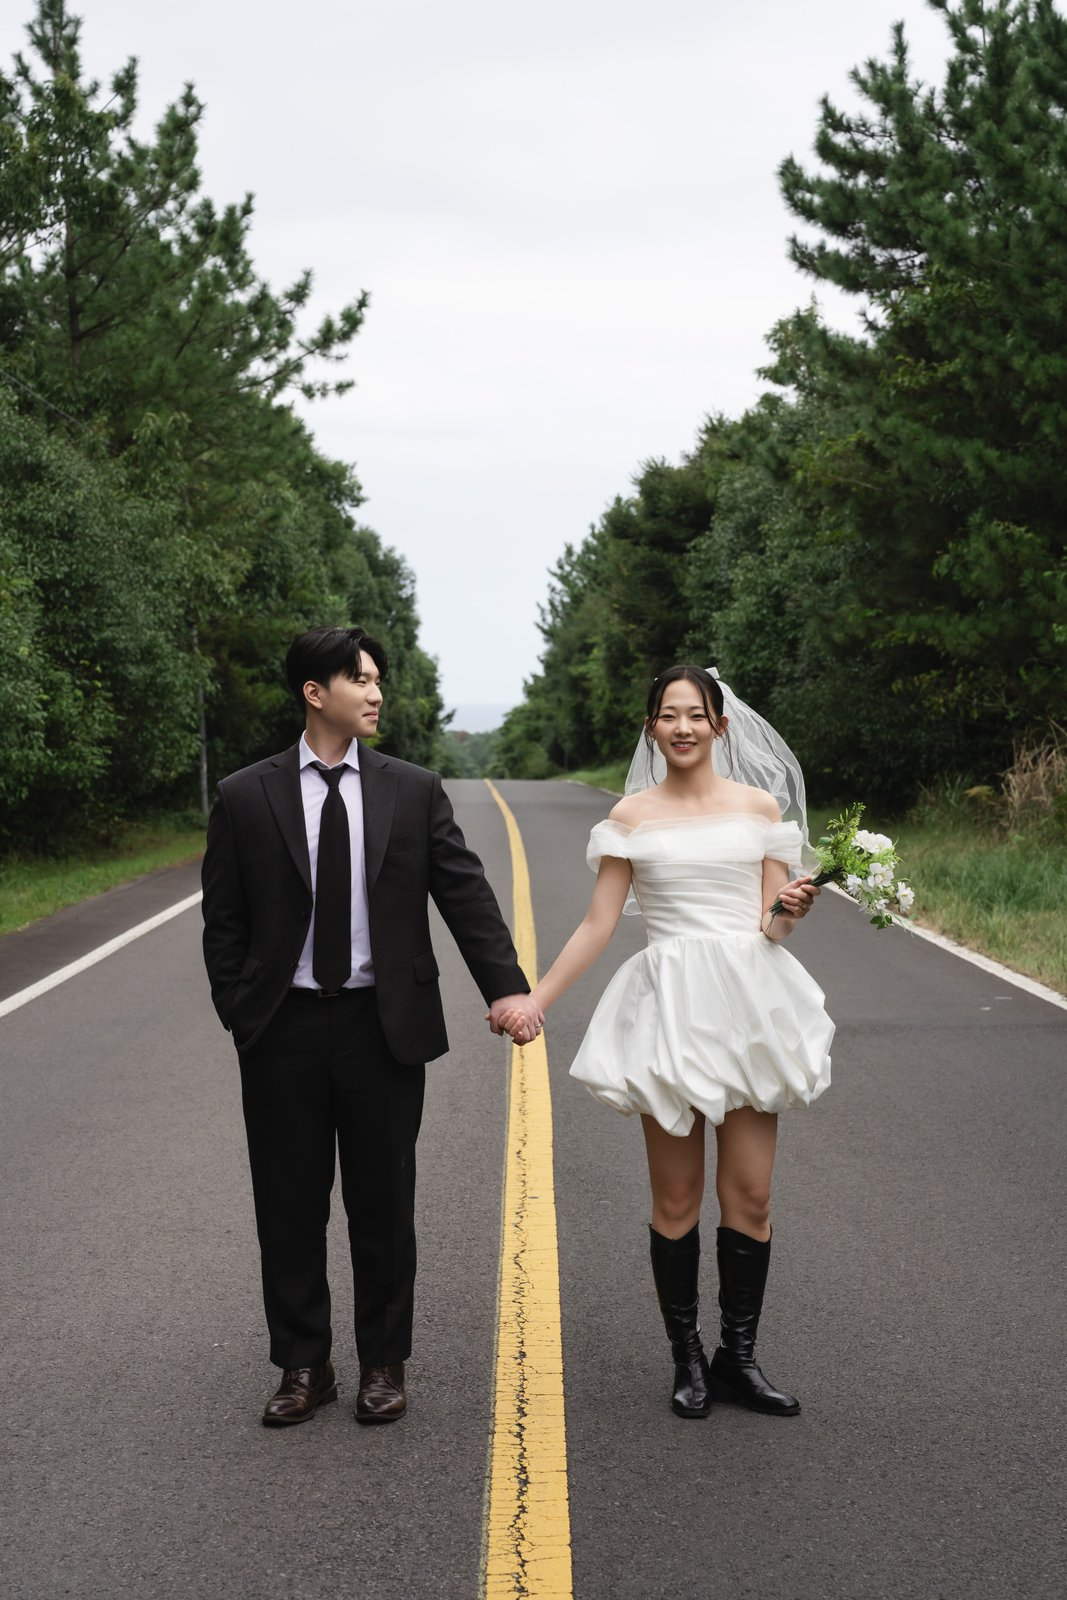
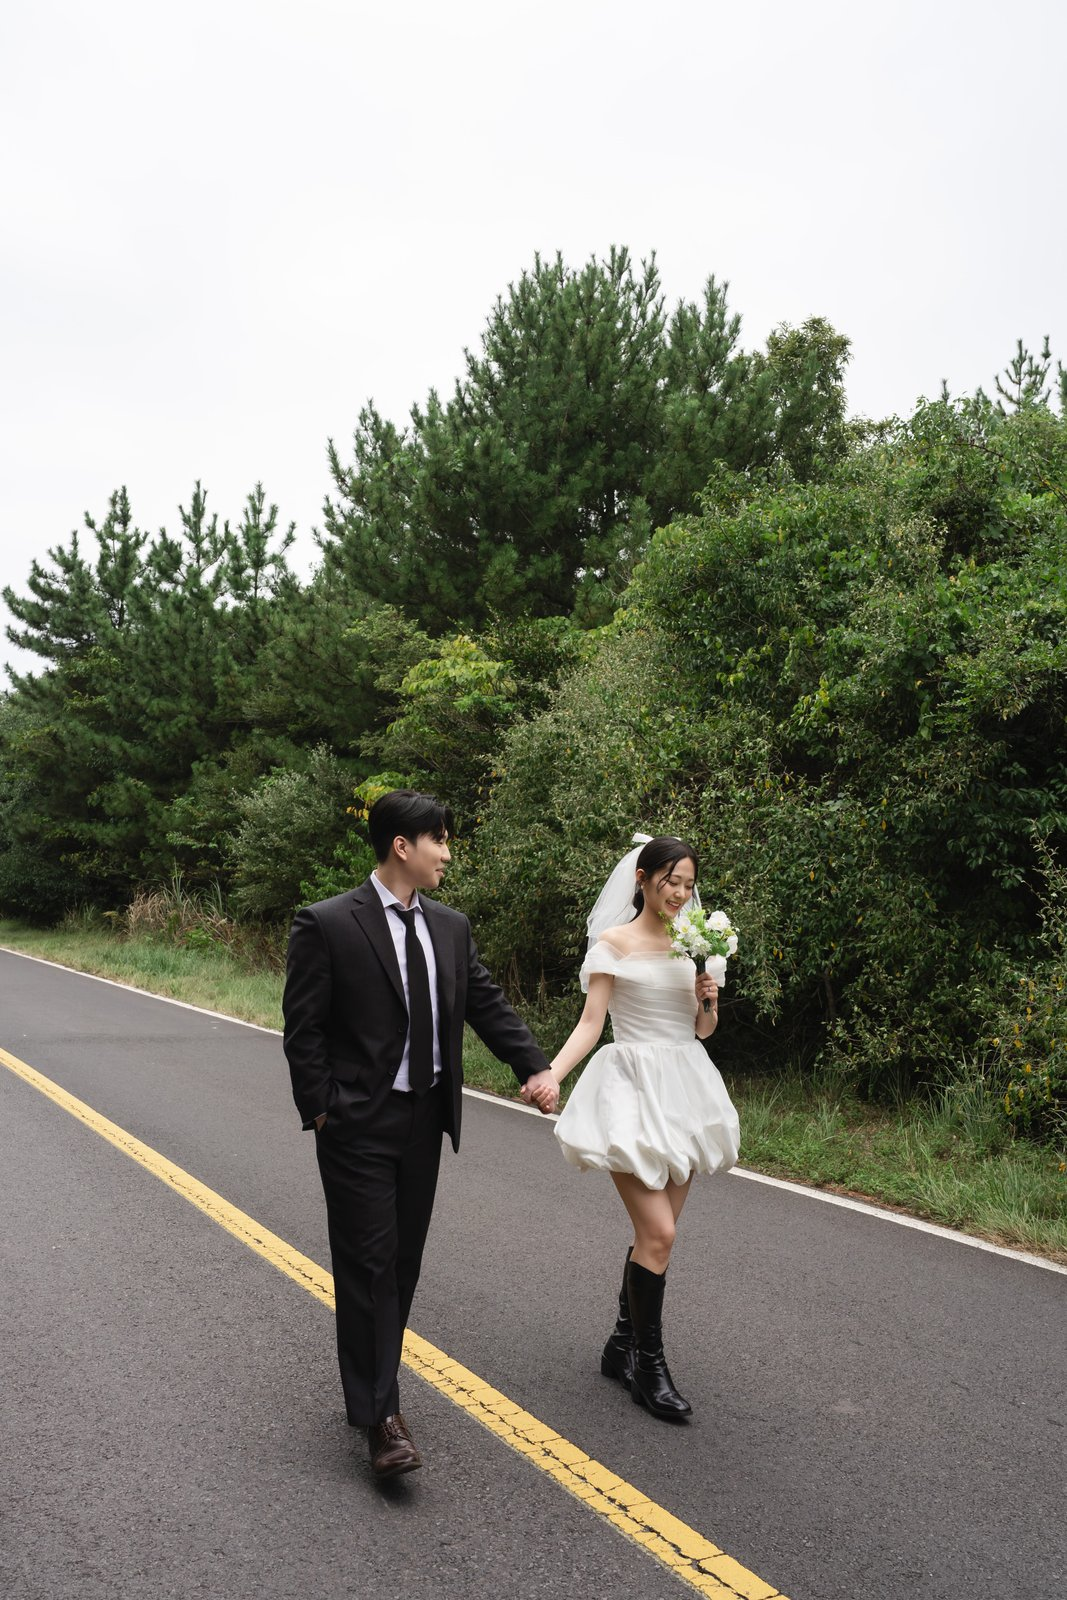
제주 사진 9장으로 정리
Claude-Session: https://claude.ai/code/session_01NCanrcdHfTAWPxPeJGYshp

diff --git a/index.html b/index.html
@@ -342,7 +342,7 @@ footer{padding:28px 16px 40px;text-align:center;font-family:var(--latin);font-si
 // 갤러리 탭: 탭 이름(tab)과 사진 장수(count)만 바꾸면 됩니다. 사진이 0장인 탭은 숨겨집니다.
 var GALLERIES = [
   { tab: 'Seoul', title: '서울에서 우리', dir: 'images/seoul/', count: 12 },  // 스튜디오: images/seoul/01.jpg ~ 12.jpg
-  { tab: 'Jeju',  title: '제주에서 우리', dir: 'images/jeju/',  count: 12 }   // 제주: images/jeju/01.jpg ~ 12.jpg
+  { tab: 'Jeju',  title: '제주에서 우리', dir: 'images/jeju/',  count: 9 }    // 제주: images/jeju/01.jpg ~ 09.jpg
 ];
 var RSVP_URL = 'https://docs.google.com/forms/d/e/1FAIpQLSc7h8CQqF88eNU5bpTkrGZw8vYWyU4d9gT9mCeSRgRYX7eNNg/viewform';              // 구글 폼 등 참석 여부 받을 주소
 // ===============================
@@ -378,9 +378,9 @@ var RSVP_URL = 'https://docs.google.com/forms/d/e/1FAIpQLSc7h8CQqF88eNU5bpTkrGZw
     tb.setAttribute('role','tab');tb.setAttribute('aria-selected',k===0?'true':'false');tb.dataset.k=k;tabs.appendChild(tb);
     var grid=document.createElement('div');grid.className='gal';grid.setAttribute('role','tabpanel');grid.dataset.k=k;if(k>0)grid.hidden=true;
     for(var g=1;g<=G.count;g++){
-      var n=String(g).padStart(2,'0');list.push(G.dir+n+'.jpg?v=10');
+      var n=String(g).padStart(2,'0');list.push(G.dir+n+'.jpg?v=11');
       var b=document.createElement('button');b.type='button';b.dataset.i=g-1;b.setAttribute('aria-label',(G.tab||G.title)+' '+g+'번 사진 크게 보기');
-      b.innerHTML='<span>'+g+'</span><img src="'+G.dir+'t_'+n+'.jpg?v=10" alt="" loading="'+(k===0?'lazy':'eager')+'" onerror="this.remove()">';
+      b.innerHTML='<span>'+g+'</span><img src="'+G.dir+'t_'+n+'.jpg?v=11" alt="" loading="'+(k===0?'lazy':'eager')+'" onerror="this.remove()">';
       grid.appendChild(b);
     }
     gals.appendChild(grid);
